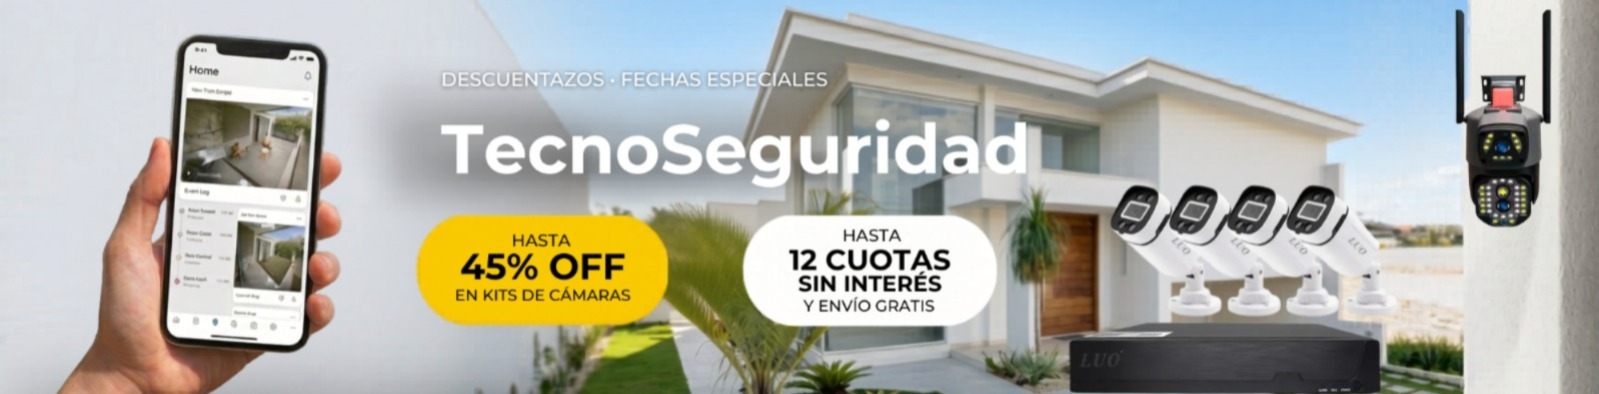
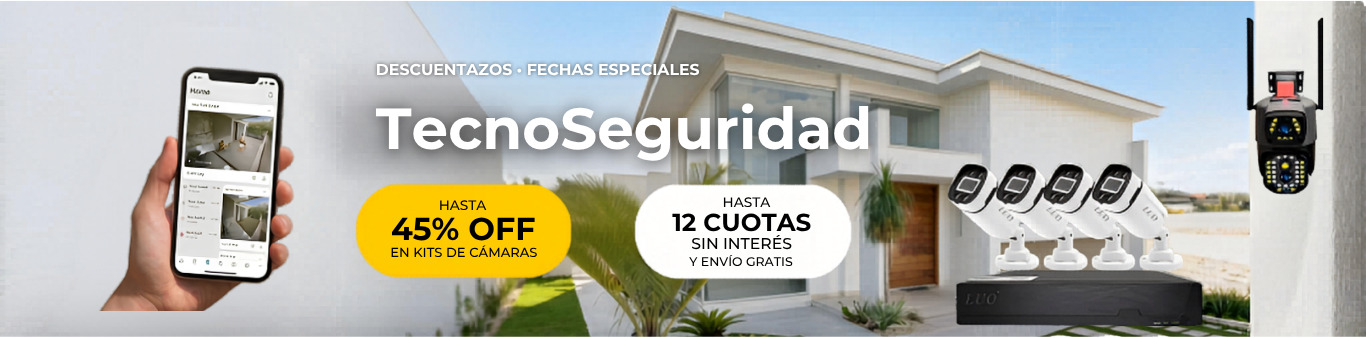
Edicion inicio

diff --git a/resources/views/inicio.blade.php b/resources/views/inicio.blade.php
@@ -4,7 +4,7 @@
 
 @section('contenido')
 
-<div id="carouselPromociones" class="carousel slide mb-5 shadow rounded" data-bs-ride="carousel">
+<div id="carouselPromociones" class="carousel slide mb-5" data-bs-ride="carousel">
     
     <div class="carousel-indicators">
         <button type="button" data-bs-target="#carouselPromociones" data-bs-slide-to="0" class="active" aria-current="true"></button>
@@ -12,22 +12,22 @@
         <button type="button" data-bs-target="#carouselPromociones" data-bs-slide-to="2"></button>
     </div>
 
-    <div class="carousel-inner rounded">
+    <div class="carousel-inner">
         <div class="carousel-item active" data-bs-interval="3000">
             <img src="{{ asset('images/img-descounts/img-mundial.png') }}" class="d-block w-100 object-fit-cover" 
-     style="height: 300px;" 
+     style="height: 310px;" 
      alt="Promoción">
         </div>
 
         <div class="carousel-item" data-bs-interval="3000">
             <img src="{{ asset('images/img-descounts/img-descuento-seguridad.png') }}" class="d-block w-100 object-fit-cover" 
-     style="height: 300px;" 
+     style="height: 310px;" 
      alt="Promoción Tecnología">
         </div>
 
         <div class="carousel-item" data-bs-interval="3000">
             <img src="{{ asset('images/img-descounts/img-descuento-invierno.png') }}" class="d-block w-100 object-fit-cover" 
-     style="height: 300px;" 
+     style="height: 310px;" 
      alt="Promoción Hogar">
         </div>
     </div>
@@ -41,6 +41,9 @@
         <span class="visually-hidden">Siguiente</span>
     </button>
 </div>
+
+<div class="container">
+
 <h2 class="mb-4">Nuestras Categorías</h2>
 
 <div class="row">
@@ -319,4 +322,5 @@
     </div>
 </div>
 
+</div>
 @endsection

diff --git a/resources/views/layouts/app.blade.php b/resources/views/layouts/app.blade.php
@@ -56,7 +56,7 @@
     </div>
 </nav>
 
-<main class="container mt-4">
+<main class="py-0">
     @yield('contenido')
 </main>
 
